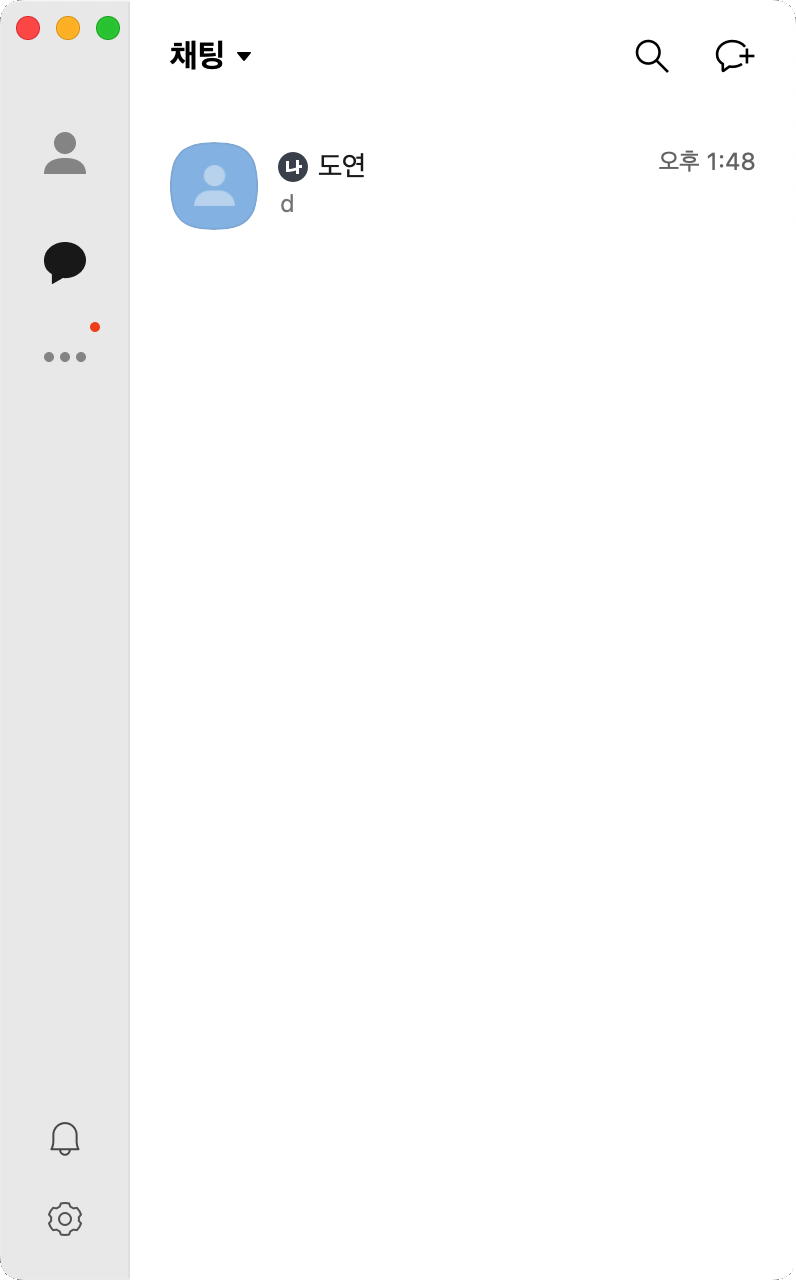
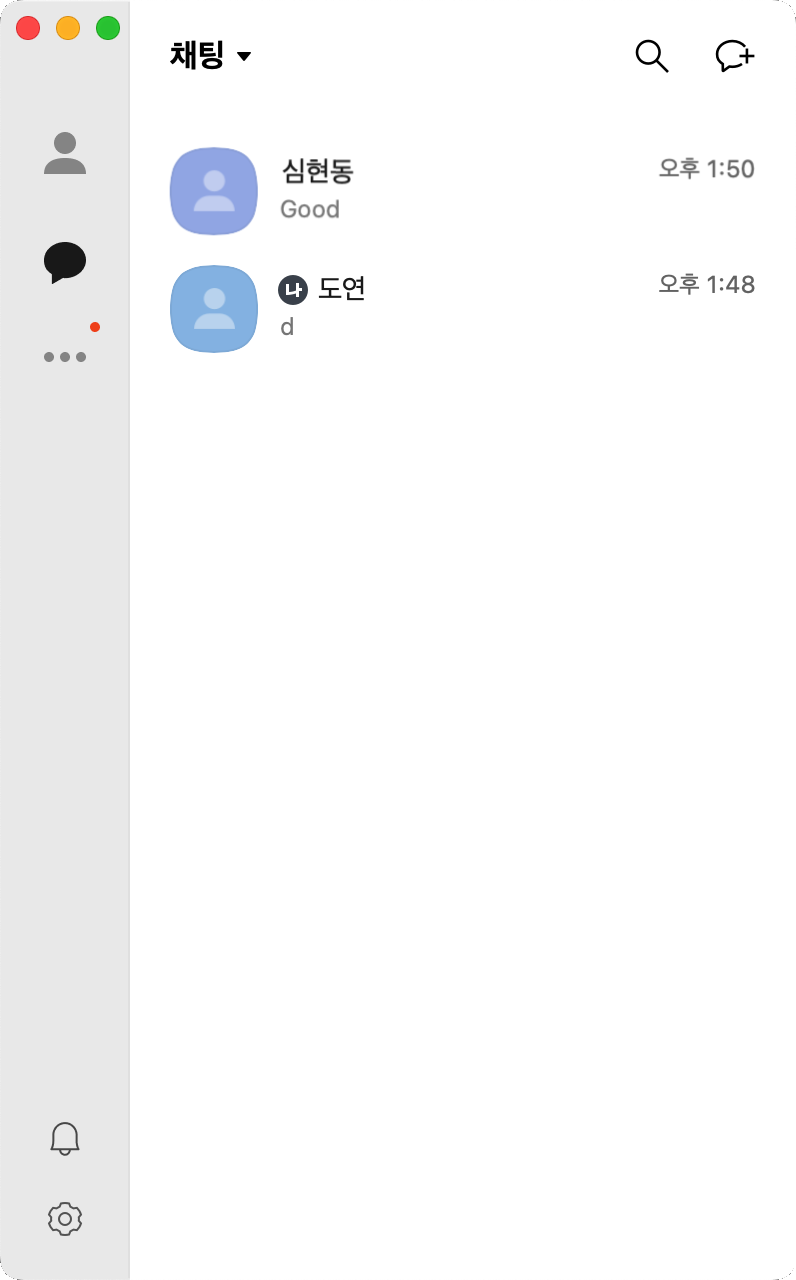
.

diff --git a/src/TalkPage_Sim/Chat_TalkSim.java b/src/TalkPage_Sim/Chat_TalkSim.java
@@ -1,4 +1,4 @@
-package TalkPage_Me;
+package TalkPage_Sim;
 
 import javax.swing.*;
 import java.awt.*;
@@ -7,30 +7,26 @@ import java.time.format.DateTimeFormatter;
 import java.util.ArrayList;
 
 import static Home.Home_Page.Current_Time;
-import static Home.Home_Page.Current_Chat;
 
-public class Chat_Talkmyself {
-
+public class Chat_TalkSim {
     static JPanel chat_scroll = new JPanel();
-    static int chat_cnt = 0;
-    static int time_cnt = 0;
+    static int chat_cntS = 0;
+    static int time_cntS = 0;
     static JLabel STR;
     static ArrayList<LocalTime> messageTimes = new ArrayList<LocalTime>();
     static ArrayList<String> messageMinutes = new ArrayList<String>();
     static boolean isTextFirst = false;
 
-    // Chat 메서드 내에서 STR 초기화
-    public static void Chat(String chat_str, JPanel Talk_Panel_me, String O_time) {
-        Current_Chat = chat_str;
+    public static void Chat(String chat_str, JPanel Talk_Panel_Me,String O_time){
+        chat_cntS++;
+        time_cntS++;
 
-        chat_cnt++;
-        time_cnt++;
-
-        Talk_Panel_me.revalidate();
-        Talk_Panel_me.repaint();
+        Talk_Panel_Me.revalidate();
+        Talk_Panel_Me.repaint();
 
         // chat_scroll 패널 생성 및 설정
         chat_scroll.setBounds(0,85,379,430);
+        chat_scroll.setOpaque(false);
         chat_scroll.setOpaque(false);
         chat_scroll.setLayout(new BoxLayout(chat_scroll, BoxLayout.Y_AXIS));
         chat_scroll.revalidate();
@@ -40,14 +36,13 @@ public class Chat_Talkmyself {
         JScrollPane scrollPane = new JScrollPane(chat_scroll);
         scrollPane.setVerticalScrollBarPolicy(JScrollPane.VERTICAL_SCROLLBAR_AS_NEEDED);
         scrollPane.setHorizontalScrollBarPolicy(JScrollPane.HORIZONTAL_SCROLLBAR_NEVER);
-        scrollPane.setBounds(0, 85, 379, 430);
-        scrollPane.setOpaque(false);
+        scrollPane.setBounds(0,85,379,430);
         scrollPane.setOpaque(false);
         scrollPane.getViewport().setOpaque(false);
         scrollPane.setBorder(BorderFactory.createEmptyBorder());
 
         JScrollBar verticalBar = scrollPane.getVerticalScrollBar();
-        verticalBar.setOpaque(false); // 스크롤바를 투명하게
+        verticalBar.setOpaque(false);
         verticalBar.setUI(new javax.swing.plaf.basic.BasicScrollBarUI() {
             @Override
             protected void configureScrollBarColors() {
@@ -94,40 +89,38 @@ public class Chat_Talkmyself {
             }
         });
 
+        JPanel messagePanel_Me = new JPanel();
+        messagePanel_Me.setName("messagePanel_Me"+time_cntS);
+        messagePanel_Me.setOpaque(false);
+        messagePanel_Me.setPreferredSize(new Dimension(379,31));
+        messagePanel_Me.setLayout(new FlowLayout(FlowLayout.RIGHT, 2, 7));
 
-        JPanel messagePanel = new JPanel();
-        messagePanel.setName("messagePanel"+time_cnt);
-        messagePanel.setOpaque(false);
-        messagePanel.setPreferredSize(new Dimension(379,31));
-        messagePanel.setLayout(new FlowLayout(FlowLayout.RIGHT,2,7));
-
-        JPanel gluedPanel = new JPanel();
-        gluedPanel.setName("gluedPanel"+time_cnt);
-        gluedPanel.setLayout(new BorderLayout());
-        gluedPanel.add(messagePanel, BorderLayout.CENTER);
-        gluedPanel.setMaximumSize(new Dimension(350, 31)); // 패널 크기 고정
-        gluedPanel.setOpaque(false);
+        JPanel gluedPanel_Me = new JPanel();
+        gluedPanel_Me.setName("gluedPanel_Me"+time_cntS);
+        gluedPanel_Me.setLayout(new BorderLayout());
+        gluedPanel_Me.add(messagePanel_Me, BorderLayout.CENTER);
+        gluedPanel_Me.setMaximumSize(new Dimension(350,31));
+        gluedPanel_Me.setOpaque(false);
 
         // 시간 입력
-        DateTimeFormatter originalFormat = DateTimeFormatter.ofPattern("HH:mm:ss");
-        DateTimeFormatter targetFormat = DateTimeFormatter.ofPattern("a h:mm");
-        LocalTime localTime = LocalTime.parse(O_time, originalFormat);
-        String time = localTime.format(targetFormat);
-        JLabel time_label = new JLabel(time);
-        time_label.setFont(new Font("Arial",Font.PLAIN,10));
-        time_label.setForeground(Color.darkGray);
-        time_label.setPreferredSize(new Dimension(time_label.getPreferredSize().width+8, time_label.getPreferredSize().height));
+        DateTimeFormatter originalFormat_Me = DateTimeFormatter.ofPattern("HH:mm:ss");
+        DateTimeFormatter targetFormat_Me = DateTimeFormatter.ofPattern("a h:mm");
+        LocalTime localTime_Me = LocalTime.parse(O_time, originalFormat_Me);
+        String time_Me = localTime_Me.format(targetFormat_Me);
+        JLabel time_label_Me = new JLabel(time_Me);
+        time_label_Me.setFont(new Font("Arial",Font.PLAIN,10));
+        time_label_Me.setForeground(Color.darkGray);
+        time_label_Me.setPreferredSize(new Dimension(time_label_Me.getPreferredSize().width+8, time_label_Me.getPreferredSize().height));
 
-        Current_Time = targetFormat;
+        Current_Time = targetFormat_Me;
 
-        LocalTime time_now = LocalTime.now(); // 현재 시간
-        String minutes_time = time_now.format(DateTimeFormatter.ofPattern("HH:mm"));
+        LocalTime time_now_Me = LocalTime.now();
+        String minutes_time_Me = time_now_Me.format(DateTimeFormatter.ofPattern("HH:mm"));
 
-
-        messageTimes.add(time_now);
-        messageMinutes.add(minutes_time);
-        messagePanel.add(time_label);
-        time_label.setName("time_label"+time_cnt);
+        messageTimes.add(time_now_Me);
+        messageMinutes.add(minutes_time_Me);
+        messagePanel_Me.add(time_label_Me);
+        time_label_Me.setName("time_label_Me"+time_cntS);
 
         if(!isTextFirst){
             isTextFirst = true;
@@ -136,11 +129,11 @@ public class Chat_Talkmyself {
         else{
             if(messageMinutes.getLast().equals(messageMinutes.get(messageMinutes.size()-2))){
                 if(messageTimes.getLast().isAfter(messageTimes.get(messageTimes.size()-2))){
-                    JPanel G_Panel = findPanelByName(chat_scroll,"gluedPanel"+(time_cnt-1));
+                    JPanel G_Panel = findPanelByName(chat_scroll,"gluedPanel_Me"+(time_cntS-1));
                     if(G_Panel != null){
-                        JPanel M_Panel = findPanelByName(G_Panel, "messagePanel"+(time_cnt-1));
+                        JPanel M_Panel = findPanelByName(G_Panel, "messagePanel_Me"+(time_cntS-1));
                         if (M_Panel != null) {
-                            JLabel T_Label = (JLabel) findComponentByName(M_Panel, "time_label"+(time_cnt-1));
+                            JLabel T_Label = (JLabel) findComponentByName(M_Panel, "time_label_Me"+(time_cntS-1));
                             if (T_Label != null) {
                                 T_Label.setText(" "); // 텍스트 변경
                             }
@@ -149,19 +142,17 @@ public class Chat_Talkmyself {
                 }
             }
         }
-
         // 메시지 입력
         STR = new JLabel(chat_str);
-        JLabel messageLabel = Make_Background_and_Chat(chat_str);
-        messagePanel.add(messageLabel);
-        chat_scroll.add(gluedPanel);
+        JLabel messageLabel_Me = Make_Background_and_Chat(chat_str);
+        messagePanel_Me.add(messageLabel_Me);
+        chat_scroll.add(gluedPanel_Me);
 
+        scrollPane.getViewport().setViewPosition(new Point(0, 31*chat_cntS));
 
-        scrollPane.getViewport().setViewPosition(new Point(0, 31*chat_cnt));
-
-        Talk_Panel_me.add(scrollPane, 0);
-        Talk_Panel_me.revalidate();
-        Talk_Panel_me.repaint();
+        Talk_Panel_Me.add(scrollPane, 0);
+        Talk_Panel_Me.revalidate();
+        Talk_Panel_Me.repaint();
 
     }
 
@@ -248,6 +239,7 @@ public class Chat_Talkmyself {
 
         return Chat_K;
     }
+
     // 특정 이름을 가진 컴포넌트를 찾는 메서드
     private static JComponent findComponentByName(JPanel panel, String name) {
         for (Component comp : panel.getComponents()) {

diff --git a/src/TalkPage_Sim/TalkPage_Sim.java b/src/TalkPage_Sim/TalkPage_Sim.java
@@ -1,4 +1,4 @@
-package TalkPage_Me;
+package TalkPage_Sim;
 
 import Home.Home_Page;
 
@@ -8,10 +8,10 @@ import java.awt.event.*;
 import java.time.LocalTime;
 import java.time.format.DateTimeFormatter;
 
-import static TalkPage_Me.Chat_Talkmyself.chat_cnt;
-import static Home.Home_Page.isTalk_myself_Open;
+import static TalkPage_Sim.Chat_TalkSim.chat_cntS;
+import static Home.Home_Page.isTalk_Sim_Open;
 
-public class TalkPage_Me {
+public class TalkPage_Sim {
     static JTextArea InputArea = new JTextArea("메시지 입력");
     static JPanel Talk_panel_me = new JPanel();
     static JLabel sending = new JLabel();
@@ -45,7 +45,7 @@ public class TalkPage_Me {
         InputArea.setForeground(new Color(139,139,139));
         InputArea.setOpaque(false);
 
-       // InputArea.setBackground(Color.white);
+        // InputArea.setBackground(Color.white);
         InputArea.setBounds(0,0,370,72);
         InputArea.setLineWrap(true);
         InputArea.setWrapStyleWord(true);
@@ -134,7 +134,7 @@ public class TalkPage_Me {
         JLabel Talk_Background_me = new JLabel();
         Talk_Background_me.setOpaque(false);
         Talk_Background_me.setBounds(0, 0, 379, 639);
-        ImageIcon Talk_B_meI = new ImageIcon("image/TalkPage/TalkPage_Me.png");
+        ImageIcon Talk_B_meI = new ImageIcon("image/TalkPage/TalkPage_Sim.png");
         Image Talk_B_me_img = Talk_B_meI.getImage();
         Image Talk_B_me_logo = Talk_B_me_img.getScaledInstance(379, 639, Image.SCALE_SMOOTH);
         Talk_Background_me.setIcon(new ImageIcon(Talk_B_me_logo));
@@ -177,7 +177,7 @@ public class TalkPage_Me {
         X_button_Box.addMouseListener(new MouseAdapter() {
             public void mousePressed(MouseEvent e) {
                 X_button.setVisible(false);
-                isTalk_myself_Open = false;
+                isTalk_Sim_Open = false;
                 Home_Page.setTalk_myself_Open(false);
                 frame_Talk_me.dispose();
             }
@@ -205,7 +205,7 @@ public class TalkPage_Me {
             @Override
             public void actionPerformed(ActionEvent e) {
                 X_button.setVisible(false);
-                isTalk_myself_Open = false;
+                isTalk_Sim_Open = false;
                 Home_Page.setTalk_myself_Open(false);
                 frame_Talk_me.dispose();
             }
@@ -231,12 +231,12 @@ public class TalkPage_Me {
         String formattedTime = currentTime.format(DateTimeFormatter.ofPattern("HH:mm:ss"));
 
         // 이전 메시지와 시간이 동일하면 시간 정보 삭제
-        if (chat_cnt > 0 && isTimeEqual(formattedTime)) {
+        if (chat_cntS > 0 && isTimeEqual(formattedTime)) {
             // 시간이 같으면 중복된 시간은 출력하지 않음
             formattedTime = "";
         }
 
-        Chat_Talkmyself.Chat(messageText, Talk_panel_me, formattedTime);
+        Chat_TalkSim.Chat(messageText, Talk_panel_me, formattedTime);
         InputArea.setText(null);
     }
 

diff --git a/src/Home/Home_Page.java b/src/Home/Home_Page.java
@@ -3,14 +3,20 @@ package Home;
 import javax.swing.*;
 import java.awt.*;
 import java.awt.event.*;
+import java.time.format.DateTimeFormatter;
 
 import Icon.K_Icon;
 import TalkPage_Me.TalkPage_Me;
+import TalkPage_Sim.TalkPage_Sim;
 
 public class Home_Page {
     static JFrame frame_Home = new JFrame("");
 
     public static boolean isTalk_myself_Open = false;
+    public static boolean isTalk_Sim_Open = false;
+
+    public static String Current_Chat = "";
+    public static DateTimeFormatter Current_Time;
 
     public static void Home() {
         try {
@@ -206,7 +212,7 @@ public class Home_Page {
         Background.setIcon(new ImageIcon(Background_logo));
 
         JLabel Me = new JLabel();
-        Me.setBounds(65, 56, 333, 70);
+        Me.setBounds(65, 125, 333, 60);
         Me.setBackground(new Color(0, 0, 0, 0));
         Me.setOpaque(true);
         Me.addMouseListener(new MouseAdapter() {
@@ -230,6 +236,30 @@ public class Home_Page {
             }
         });
 
+        JLabel Sim = new JLabel();
+        Sim.setBounds(65,65,333,60);
+        Sim.setBackground(new Color(0,0,0,0));
+        Sim.setOpaque(true);
+        Sim.addMouseListener(new MouseAdapter() {
+            public void mousePressed(MouseEvent e){
+                if (!isTalk_Sim_Open) {
+                    isTalk_Sim_Open = true;
+                    TalkPage_Sim.TalkPage();
+                }
+            }
+            public void mouseEntered(MouseEvent e){
+                Sim.setBackground(new Color(0,0,0,20));
+                Chatting_Panel.revalidate();
+                Chatting_Panel.repaint();
+            }
+            public void mouseExited(MouseEvent e){
+                Sim.setBackground(new Color(0,0,0,0));
+                Chatting_Panel.revalidate();
+                Chatting_Panel.repaint();
+            }
+        });
+
+        Chatting_Panel.add(Sim);
         Chatting_Panel.add(Me);
         Chatting_Panel.add(Background);
     }
@@ -310,4 +340,10 @@ public class Home_Page {
     public static void setTalk_myself_Open(boolean home_PageOpen) {
         isTalk_myself_Open = home_PageOpen;
     }
+
+    // Setter 메서드
+    public static void setTalk_Sim_Open(boolean home_PageOpen) {
+        isTalk_Sim_Open = home_PageOpen;
+    }
+
 }
